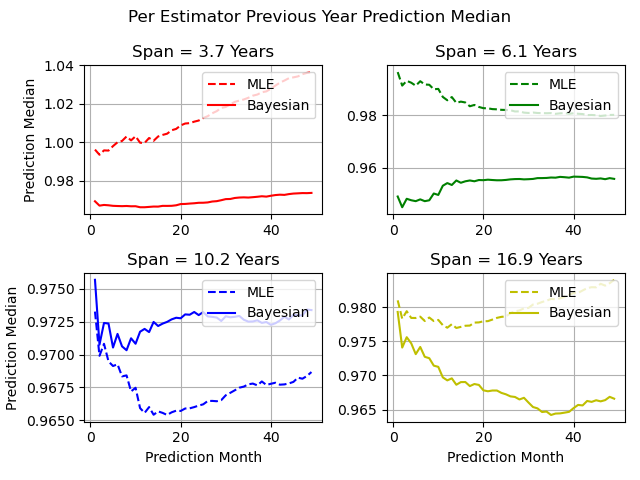
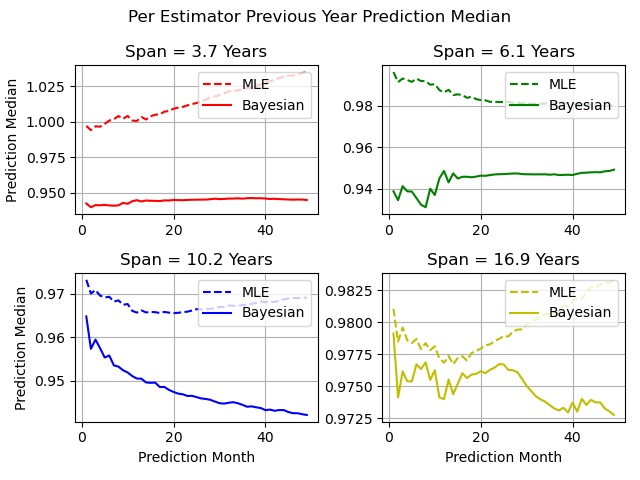
Fix bug in conversion of the input tail parameter to the innovations distribution.

diff --git a/ARIMA/BayesianTimeSeries.py b/ARIMA/BayesianTimeSeries.py
@@ -10,13 +10,16 @@ ARIMA = PyroModule[ARIMA]
 VARIMA = PyroModule[VARIMA]
 
 def BayesianARIMA(*args, obs_idx, predict_idx, innovations=NormalInnovations, **kwargs):
-    module = BayesianTimeSeries(ARIMA(*args, **kwargs), innovations(), obs_idx, predict_idx)
-    if isinstance(module.model.i_tail, pt.nn.Parameter):
+    model = ARIMA(*args, **kwargs)
+    innovations = innovations()
+    if isinstance(model.i_tail, pt.nn.Parameter):
         # Convert input tail parameter to the innovations distribution
-        tail_len = module.model.i_tail.shape[-1]
-        delattr(module.model, 'i_tail')
-        module.model.i_tail = PyroSample(lambda self: self.innovations_dist([*range(-tail_len, 0)]))
-    return module
+        tail_len = model.i_tail.shape[-1]
+        delattr(model, 'i_tail')
+        model.i_tail = PyroSample(lambda self: innovations([*range(-tail_len, 0)]))
+    # Create remaining model latent variables
+    make_params_pyro(model)
+    return BayesianTimeSeries(model, innovations, obs_idx, predict_idx)
 
 def BayesianVARIMA(*args, n, obs_idx, predict_idx, innovations=MultivariateNormalInnovations, **kwargs):
     '''
@@ -32,14 +35,16 @@ def BayesianVARIMA(*args, n, obs_idx, predict_idx, innovations=MultivariateNorma
         >>> ret_val.shape
         torch.Size([17, 5])
     '''
-    return BayesianTimeSeries(VARIMA([ARIMA(*args, **kwargs) for i in range(n)]), innovations(n), obs_idx, predict_idx)
+    model = VARIMA([ARIMA(*args, **kwargs) for i in range(n)])
+    innovations = innovations(n)
+    # Create remaining model latent variables
+    make_params_pyro(model)
+    return BayesianTimeSeries(model, innovations, obs_idx, predict_idx)
 
 class BayesianTimeSeries(PyroModule):
     def __init__(self, model, innovations, obs_idx, predict_idx):
         super().__init__()
         self.model = model
-        # Creating model latent variables
-        make_params_pyro(self)
         self.innovations_dist = innovations
         self.set_indices(obs_idx, predict_idx)
 
